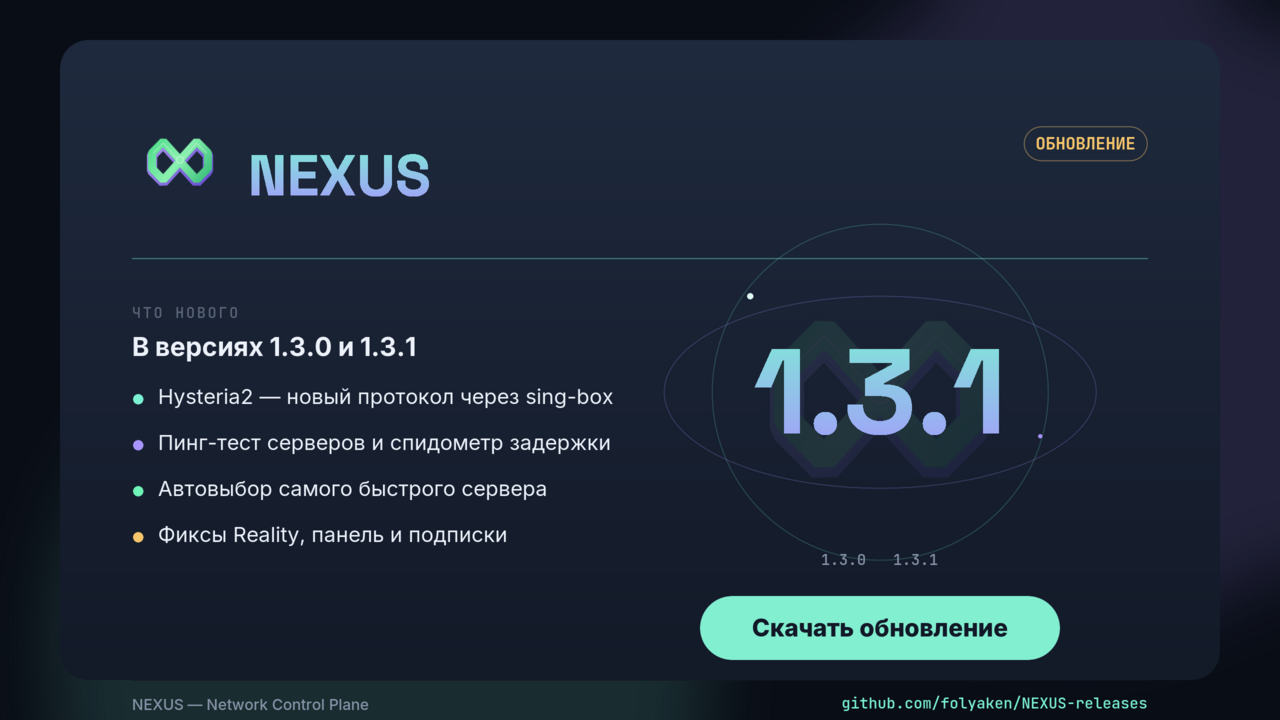
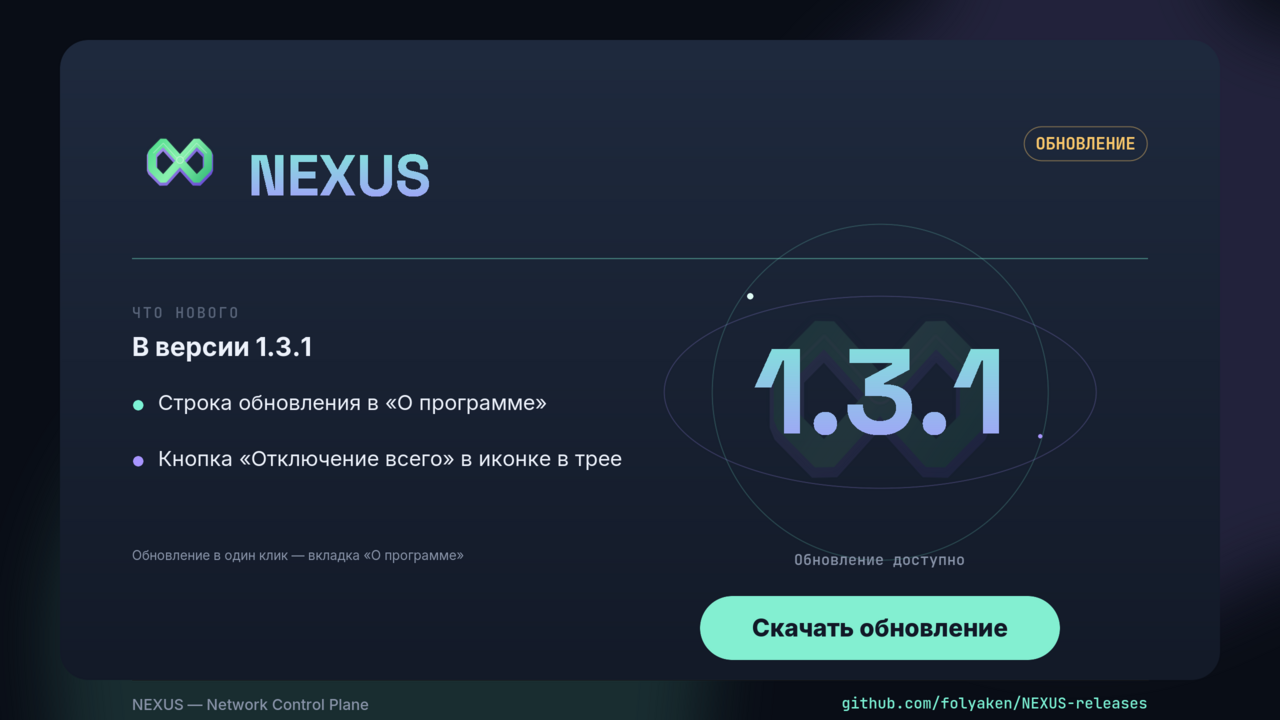
Fix 1.3.1 changelog: About update line + tray disconnect-all button

diff --git a/tools/render_update.js b/tools/render_update.js
@@ -16,10 +16,8 @@ fs.mkdirSync(path.dirname(OUT), { recursive: true });
 /* ================= EDIT THESE PER RELEASE ================= */
 const VERSION = '1.3.1';
 const CHANGES = [
-  { c: '#7cf2d5', t: 'Hysteria2 — новый протокол через sing-box' },
-  { c: '#a895ff', t: 'Пинг-тест серверов и спидометр задержки' },
-  { c: '#71f4b8', t: 'Автовыбор самого быстрого сервера' },
-  { c: '#f8c76c', t: 'Фиксы Reality, панель и подписки' },
+  { c: '#7cf2d5', t: 'Строка обновления в «О программе»' },
+  { c: '#a895ff', t: 'Кнопка «Отключение всего» в иконке в трее' },
 ];
 /* ============================================================ */
 
@@ -137,12 +135,13 @@ over(canvas, tmp('_urule'), LX, 258, canvas);
 /* ---- left column: "что нового" ---- */
 A = [canvas];
 txt(LX, 318, 15, F.monoM, C.muted2, 'ЧТО НОВОГО', 1.8);
-txt(LX, 356, 26, F.interB, C.text, 'В версиях 1.3.0 и 1.3.1');
+txt(LX, 356, 26, F.interB, C.text, 'В версии 1.3.1');
 CHANGES.forEach((f, i) => {
-  const y = 404 + i * 46;
+  const y = 410 + i * 56;
   fill(f.c); stroke('none'); circle(LX + 6, y - 5, 5);
   txt(LX + 26, y, 21, F.interR, C.text, f.t);
 });
+txt(LX, 560, 13, F.interR, C.muted, 'Обновление в один клик — вкладка «О программе»');
 run(A, canvas);
 
 /* ---- right: orbit + big version ---- */
@@ -163,7 +162,7 @@ const [vw, vh] = gradText(tmp('_uver'), VERSION, F.sgB, 120, '#7cf2d5', '#a895ff
 over(canvas, tmp('_uver'), OCX - vw / 4, OCY - vh / 4, canvas);
 
 // caption under version (centered)
-centerText(OCX, 560, 15, F.monoM, C.muted, '1.3.0 → 1.3.1');
+centerText(OCX, 560, 15, F.monoM, C.muted, 'Обновление доступно');
 
 /* ---- CTA pill (right bottom) — only when a real button can't be attached ---- */
 if (!NO_BUTTON) {

diff --git a/promo/update-post.md b/promo/update-post.md
@@ -4,17 +4,14 @@
 
 ---
 
-🔄 **NEXUS 1.3.0 → 1.3.1 — обновление доступно!**
+🔄 **NEXUS 1.3.1 — обновление доступно!**
 
 Что нового:
-• ⚡ Hysteria2 через sing-box — новый протокол VPN
-• 📶 Пинг-тест серверов + анимированный спидометр задержки
-• 🚀 Автовыбор самого быстрого сервера («Самый быстрый» — в топе списка)
-• 🧭 Доработан Jey2Ray: кнопка-«радар», умная кнопка питания, панель подписки
-• 🛠 Фиксы: Reality (TCP), панель инструментов, импорт ссылок
+• Новая строка обновления в «О программе» — сразу видно, когда вышла свежая версия
+• Новая кнопка «Отключение всего» в иконке в трее — один клик отключает VPN и все модули
 
 Как обновиться:
-• В приложении: «О программе» → «Проверить обновления» (в один клик)
+• В приложении: «О программе» → «Проверить обновления»
 • Или скачать установщик: https://github.com/folyaken/NEXUS-releases/releases
 
 #NEXUS #Update
